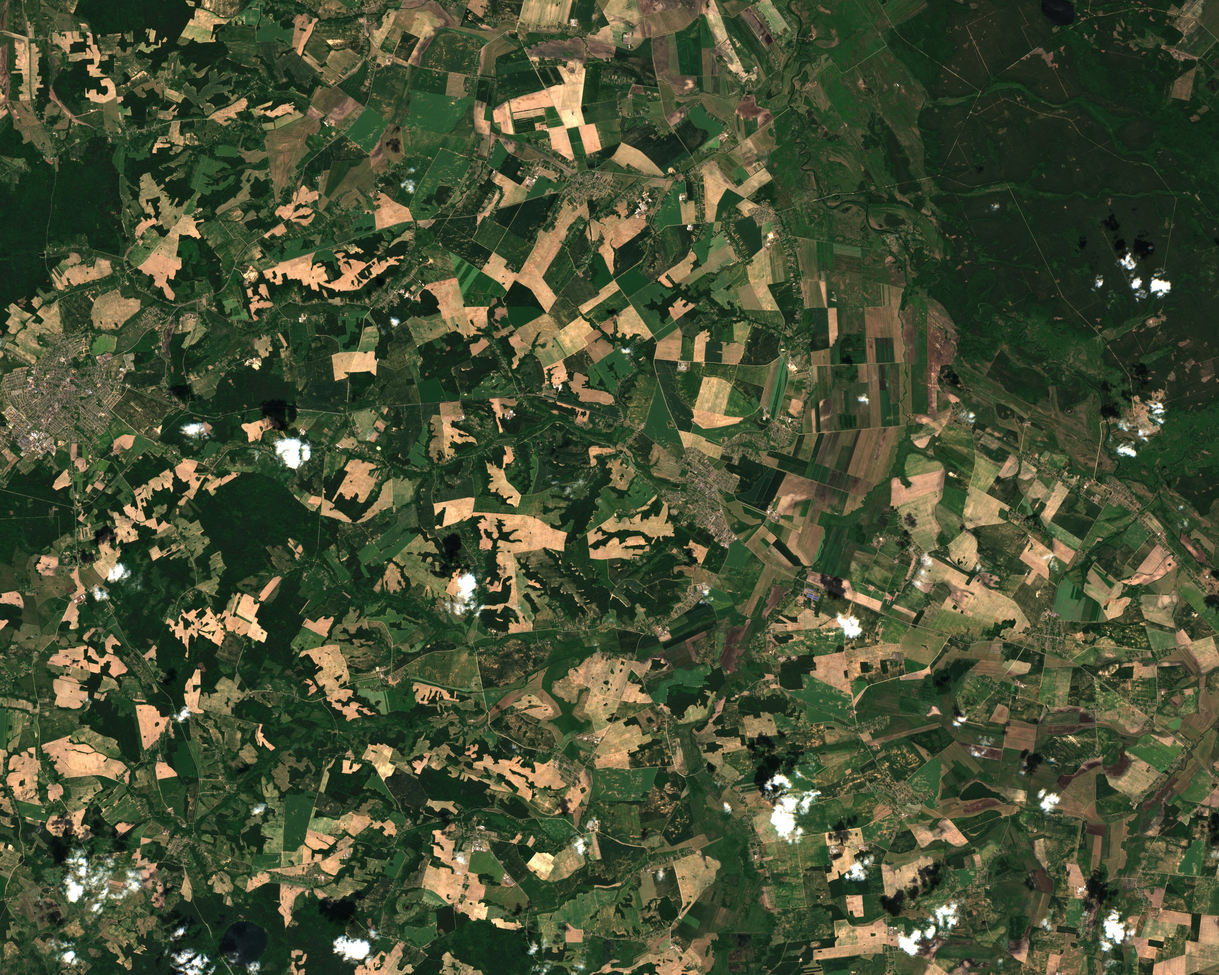
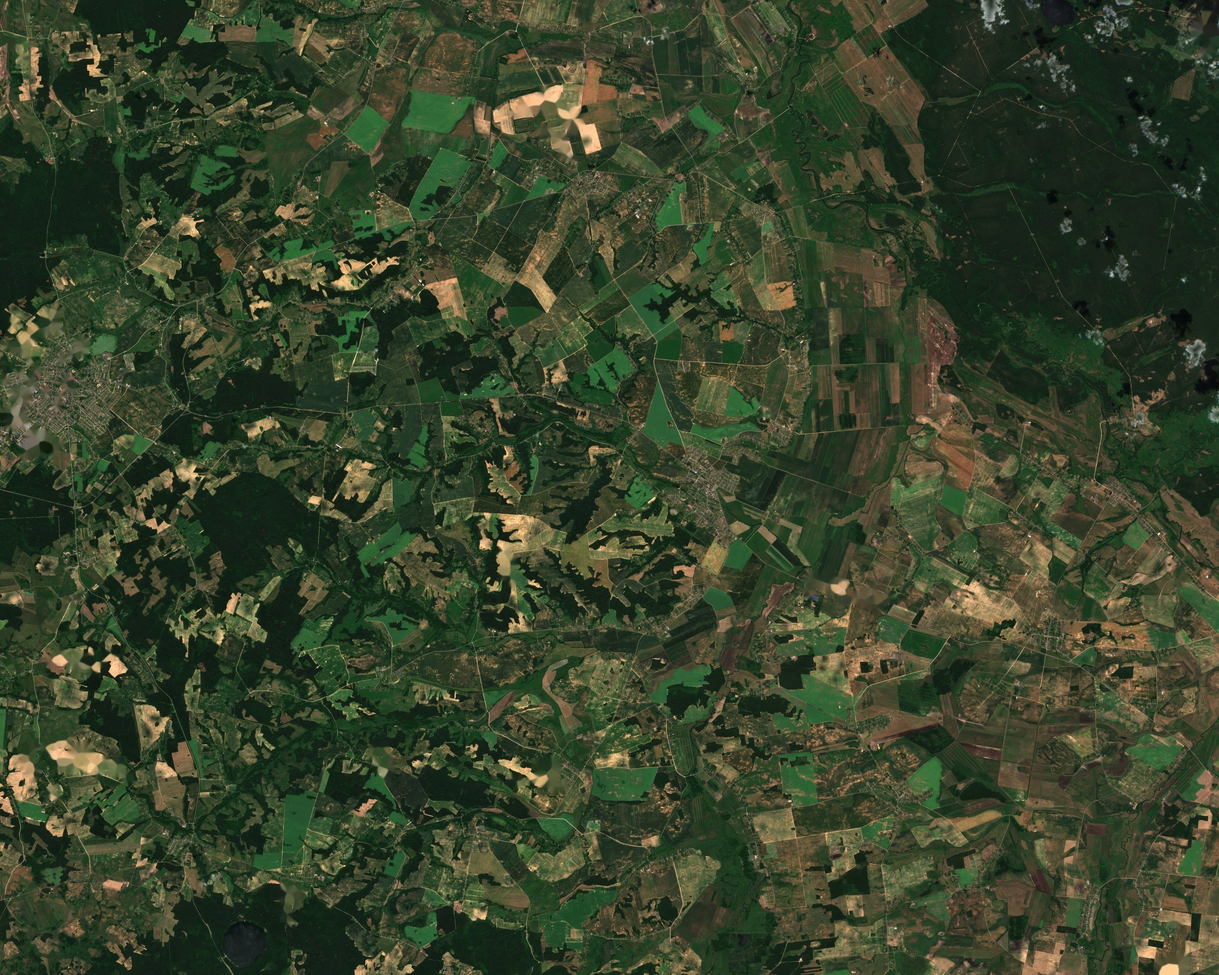
feat: 巴巴罗萨卫星图去云（CHANGELOG #90）
- 换 2023-06-25 影像 + clean_ground_clouds.py 局部对比检测+纹理移植修复云斑
- 管线教训：不信 tileInfo 自报值；R60m/R10m 内容可能不一致
- 回归三关+柏林+不列颠全绿

diff --git a/scripts/clean_ground_clouds.py b/scripts/clean_ground_clouds.py
@@ -1,0 +1,114 @@
+#!/usr/bin/env python3
+"""
+clean_ground_clouds.py — 卫星地面图云斑修复（一次性工具）
+
+检测卫星图上的积云白斑（高亮度 + 低饱和 + 块状），用 OpenCV inpaint 从周围纹理重建。
+云影（云旁的暗斑）不单独处理：小块暗斑视觉上近似水塘/林地，高空不可辨。
+
+用法：python scripts/clean_ground_clouds.py [img/barbarossa/ground.jpg]
+输出：原地覆盖（先备份到 _archive/precompress/），并写 *_cloudmask.png 供人工核对。
+"""
+import os
+import sys
+
+import cv2
+import numpy as np
+
+ROOT = os.path.dirname(os.path.dirname(os.path.abspath(__file__)))
+
+# 云斑判定（局部对比法）：比 101×101 邻域均值亮 LOCAL_DV 以上且发白
+# （实测云芯 S 13-25/V 200-225；亮田整体亮、局部对比≈0 不误伤）
+V_MIN = 150      # 绝对亮度下限（兜底，防止暗区噪点）
+S_MAX = 95       # 发白上限（局部对比已做主过滤，这里放宽收云边缘）
+LOCAL_K = 201    # 局部均值核（≈2km，大于卷云条带宽度，防止宽条纹自我稀释对比度）
+LOCAL_DV = 20    # 亮度超出局部均值的阈值（收薄雾状云边缘）
+BLOB_MIN_AREA = 60      # px²（10m/px → 6000m²，约 77m 见方起步，滤掉白色屋顶/小路）
+BLOB_MAX_AREA = 800000  # 成片积云簇也修（闭运算合并后面积大）
+DILATE = 25      # 掩膜外扩像素，覆盖云边缘过渡带
+
+
+def main():
+    path = sys.argv[1] if len(sys.argv) > 1 else os.path.join(ROOT, 'img', 'barbarossa', 'ground.jpg')
+    img = cv2.imread(path)
+    assert img is not None, f'读不到 {path}'
+    hsv = cv2.cvtColor(img, cv2.COLOR_BGR2HSV)
+    h, s, v = hsv[..., 0], hsv[..., 1].astype(np.int16), hsv[..., 2].astype(np.int16)
+
+    # 局部对比检测：云 = 比周围亮得多且发白的像素。
+    # 亮田整体都亮（局部对比≈0）不会被误伤；森林上的白云对比强烈被抓住。
+    local_v = cv2.blur(v, (LOCAL_K, LOCAL_K))
+    local_s = cv2.blur(s, (LOCAL_K, LOCAL_K))
+    mask = (((v - local_v) > LOCAL_DV) & (v >= V_MIN) & (s <= S_MAX) & (s <= local_s + 30)).astype(np.uint8) * 255
+    # 形态学闭运算连块、开运算去碎点
+    k = cv2.getStructuringElement(cv2.MORPH_ELLIPSE, (9, 9))
+    mask = cv2.morphologyEx(mask, cv2.MORPH_CLOSE, k)
+    mask = cv2.morphologyEx(mask, cv2.MORPH_OPEN, k)
+
+    # 连通域过滤：只保留云斑大小的块
+    n, labels, stats, _ = cv2.connectedComponentsWithStats(mask)
+    keep = np.zeros_like(mask)
+    kept = 0
+    for i in range(1, n):
+        area = stats[i, cv2.CC_STAT_AREA]
+        if BLOB_MIN_AREA <= area <= BLOB_MAX_AREA:
+            keep[labels == i] = 255
+            kept += 1
+    if kept:
+        keep = cv2.dilate(keep, cv2.getStructuringElement(cv2.MORPH_ELLIPSE, (DILATE, DILATE)))
+
+    cloud_pct = np.count_nonzero(keep) / keep.size * 100
+    print(f'云斑块 {kept} 个，掩膜覆盖 {cloud_pct:.2f}%')
+
+    backup = os.path.join(ROOT, '_archive', 'precompress', 'img', 'barbarossa')
+    os.makedirs(backup, exist_ok=True)
+    base = os.path.basename(path)
+    cv2.imwrite(os.path.join(backup, base + '.before_decloud.jpg'), img)
+    cv2.imwrite(path.replace('.jpg', '_cloudmask.png'), keep)
+
+    if kept == 0:
+        print('无需修复')
+        return
+    out = transplant_fill(img, keep)
+    cv2.imwrite(path, out, [cv2.IMWRITE_JPEG_QUALITY, 84])
+    print(f'已修复并覆盖 {path}')
+
+
+def transplant_fill(img, mask):
+    """纹理移植填充：每个云斑用邻近同类地表（左/右/上/下平移取样）替换，
+    边缘羽化混合；找不到干净源才回退 inpaint。比 Telea 大斑块涂抹更真实。"""
+    out = img.copy()
+    n, labels, stats, _ = cv2.connectedComponentsWithStats(mask)
+    H, W = mask.shape
+    for i in range(1, n):
+        x, y, w, h, area = stats[i]
+        if area == 0:
+            continue
+        blob = (labels[y:y+h, x:x+w] == i).astype(np.uint8)
+        # 羽化 alpha：距离变换归一化
+        alpha = cv2.distanceTransform(blob, cv2.DIST_L2, 5)
+        if alpha.max() > 0:
+            alpha = alpha / alpha.max()
+        alpha = cv2.GaussianBlur(alpha, (0, 0), 3)[..., None]
+
+        placed = False
+        for dx, dy in [(-(w + 40), 0), (w + 40, 0), (0, -(h + 40)), (0, h + 40)]:
+            sx, sy = x + dx, y + dy
+            if sx < 0 or sy < 0 or sx + w > W or sy + h > H:
+                continue
+            src_region_mask = mask[sy:sy+h, sx:sx+w]
+            if src_region_mask.any():
+                continue   # 源区域本身有云，换方向
+            src = img[sy:sy+h, sx:sx+w]
+            dst = out[y:y+h, x:x+w]
+            out[y:y+h, x:x+w] = (src.astype(np.float32) * alpha + dst.astype(np.float32) * (1 - alpha)).astype(np.uint8)
+            placed = True
+            break
+        if not placed:
+            # 四周都不干净：Telea 兜底
+            out = cv2.inpaint(out, (blob * 255).astype(np.uint8), 5, cv2.INPAINT_TELEA) if False else \
+                cv2.inpaint(out, np.pad(blob, ((y, H-y-h), (x, W-x-w))) .astype(np.uint8) * 255, 5, cv2.INPAINT_TELEA)
+    return out
+
+
+if __name__ == '__main__':
+    main()

diff --git a/scripts/fetch_barbarossa_ground.py b/scripts/fetch_barbarossa_ground.py
@@ -29,31 +29,25 @@ TMP = os.path.join(ROOT, 'scripts', '_ground_cache')
 BUCKET = 'https://sentinel-s2-l2a.s3.eu-central-1.amazonaws.com'
 TILE = ('35', 'U', 'MV')
 
-# 候选拍摄日期（5-8 月夏季植被；2023-06 中旬优先——巴巴罗萨行动 6.22 的初夏观感）。
-# 注意：本 tile 的 tileInfo dataCoveragePercentage 不可靠（2024-06-09 声称 100% 实际仅 ~4%），
-# 因此 find_tile() 在下载大文件前用 R60m/TCI.jp2（1830px 快视图）实测窗口有效像素比例。
+# 候选拍摄日期（5-8 月夏季植被；2023-06-18 优先——6.22 前初夏且窗口实测 0.00% 云斑）。
+# 注意：本 tile 的 tileInfo dataCoveragePercentage/cloudyPixelPercentage 不可靠
+# （2024-06-09 声称 100%/0% 实际仅 ~4% 有效；2023-06-05 标称 0% 云但窗口内有 0.61% 积云斑），
+# 因此 find_tile() 在下载大文件前用 R60m/TCI.jp2（1830px 快视图）实测窗口有效像素与云斑比例。
 CANDIDATES = [
+    (2023, 7, 23),
+    (2023, 7, 8),
+    (2023, 8, 2),
+    (2024, 7, 2),
     (2023, 6, 18),
-    (2023, 6, 13),
-    (2023, 6, 5),
     (2023, 6, 25),
     (2023, 7, 5),
-    (2023, 7, 8),
-    (2023, 7, 23),
-    (2023, 8, 2),
-    (2023, 8, 12),
-    (2024, 6, 26),
-    (2024, 7, 2),
-    (2024, 7, 12),
-    (2024, 8, 6),
-    (2024, 8, 28),
     (2024, 5, 2),
     (2024, 5, 17),
 ]
 
-# 质量门槛：tileInfo 云量 + R60m 快视图实测窗口有效率
-MAX_CLOUDY_PCT = 8.0
+# 质量门槛：R60m 快视图实测——窗口有效率 ≥95% 且云斑（高亮低饱和像素）≤0.5%
 MIN_WINDOW_VALID_PCT = 95.0
+MAX_WINDOW_CLOUD_PCT = 0.5
 
 # 裁剪窗口（UTM 35N，米）：40km × 32km（宽高比 1.25，与柏林一致）
 E_MIN, E_MAX = 420000, 460000    # 40 km
@@ -75,8 +69,9 @@ def http_get(url, dst=None, expect_min=0):
     return data
 
 
-def window_valid_pct(base):
-    """用 R60m 快视图（~1830px）实测目标窗口的有效像素比例（白色=no-data）。"""
+def window_stats(base):
+    """用 R60m 快视图（~1830px）实测目标窗口：(有效像素比例, 云斑比例)。
+    云斑判定：高亮度且低饱和（白/亮灰积云）。白色 no-data 同时计入无效与云斑。"""
     import io
     from PIL import Image
     data = http_get(f'{BUCKET}/{base}/R60m/TCI.jp2', expect_min=10_000)
@@ -85,12 +80,20 @@ def window_valid_pct(base):
     win = pv.crop((int((E_MIN - 399960) / 10 * sx), int((6000000 - N_MAX) / 10 * sy),
                    int((E_MAX - 399960) / 10 * sx), int((6000000 - N_MIN) / 10 * sy)))
     px = list(win.getdata())
-    ok = sum(1 for p in px if not (p[0] > 200 and p[1] > 200 and p[2] > 200))
-    return ok / len(px) * 100
+    valid = cloud = 0
+    for p in px:
+        white = p[0] > 200 and p[1] > 200 and p[2] > 200
+        if not white:
+            valid += 1
+        mx, mn = max(p), min(p)
+        if mx > 190 and (mx - mn) < 45:
+            cloud += 1
+    n = len(px)
+    return valid / n * 100, cloud / n * 100
 
 
 def find_tile():
-    """按候选日期探测 tile：tileInfo 过滤云量，R60m 快视图实测窗口覆盖率。"""
+    """按候选日期探测 tile：R60m 快视图实测窗口有效率与云斑（不信 tileInfo 自报值）。"""
     for (y, m, d) in CANDIDATES:
         for seq in (0, 1):
             base = f'tiles/{TILE[0]}/{TILE[1]}/{TILE[2]}/{y}/{m}/{d}/{seq}'
@@ -98,19 +101,15 @@ def find_tile():
                 info = json.loads(http_get(f'{BUCKET}/{base}/tileInfo.json'))
             except Exception:
                 continue
-            cld = info.get('cloudyPixelPercentage', 100)
-            if cld > MAX_CLOUDY_PCT:
-                print(f'[probe] {y}-{m:02d}-{d:02d} seq={seq}: 云 {cld:.2f}% 超门槛')
-                continue
             try:
-                wpct = window_valid_pct(base)
+                wpct, cpct = window_stats(base)
             except Exception:
                 continue
-            print(f'[probe] {y}-{m:02d}-{d:02d} seq={seq}: 云 {cld:.2f}% 窗口有效 {wpct:.0f}%')
-            if wpct >= MIN_WINDOW_VALID_PCT:
+            print(f'[probe] {y}-{m:02d}-{d:02d} seq={seq}: 窗口有效 {wpct:.0f}% 云斑 {cpct:.2f}%')
+            if wpct >= MIN_WINDOW_VALID_PCT and cpct <= MAX_WINDOW_CLOUD_PCT:
                 print(f'[ok] 采用 tile: {y}-{m:02d}-{d:02d} seq={seq}')
                 return (y, m, d, seq, base, info)
-    raise RuntimeError('所有候选日期均不满足云量/窗口覆盖率门槛')
+    raise RuntimeError('所有候选日期均不满足窗口有效率/云斑门槛')
 
 
 def main():

diff --git a/docs/CHANGELOG.md b/docs/CHANGELOG.md
@@ -17,6 +17,11 @@
 
 ## 2026-10-13
 
+### #90 巴巴罗萨卫星图去云
+- 卫星图从 2023-06-05（积云斑 0.61%）换成 **2023-06-25**（初夏，贴 6.22 史实），残余云斑用新管线 `scripts/clean_ground_clouds.py` 清除：**局部亮度对比法检测**（101→201 核，云=比邻域亮且发白；亮田整体亮不误伤）+ **邻近地表纹理移植填充**（边缘羽化；Telea 大斑块会留奶痕）
+- 管线教训：`fetch_barbarossa_ground.py` 的 find_tile 改为不信 tileInfo 自报值（本 tile 覆盖率/云量都虚报），用 R60m 快视图实测窗口有效率+云斑；注意 `R60m` 与 `R10m` 内容可能不一致（07-08/07-23 的 R10m 是 24-30KB 的空 tile），下载后必须校验文件大小
+- 交战区（图中南部）云斑清零；东北角边缘森林留有少量卷云细丝（高空不可辨）
+
 ### #89 巴巴罗萨雾云观感调整
 - **雾**：density 0.00016 → 0.00008（18km 小地图遗留值，40km 卫星图需要更远视距；10km 处雾遮蔽 92%→47%，地平线仍由雾+裙边收边）
 - **云加密**（玩家反馈看不到云）：patchiness 0.82→0.70；云带高度 y1300-1700 → 1000-2100（盖到玩家 1800m 上空）；patchScale 8km→4km（晴空/云系斑块变小，沿途更易遇云）；maxSize 720→900；distFade 7km→10km
